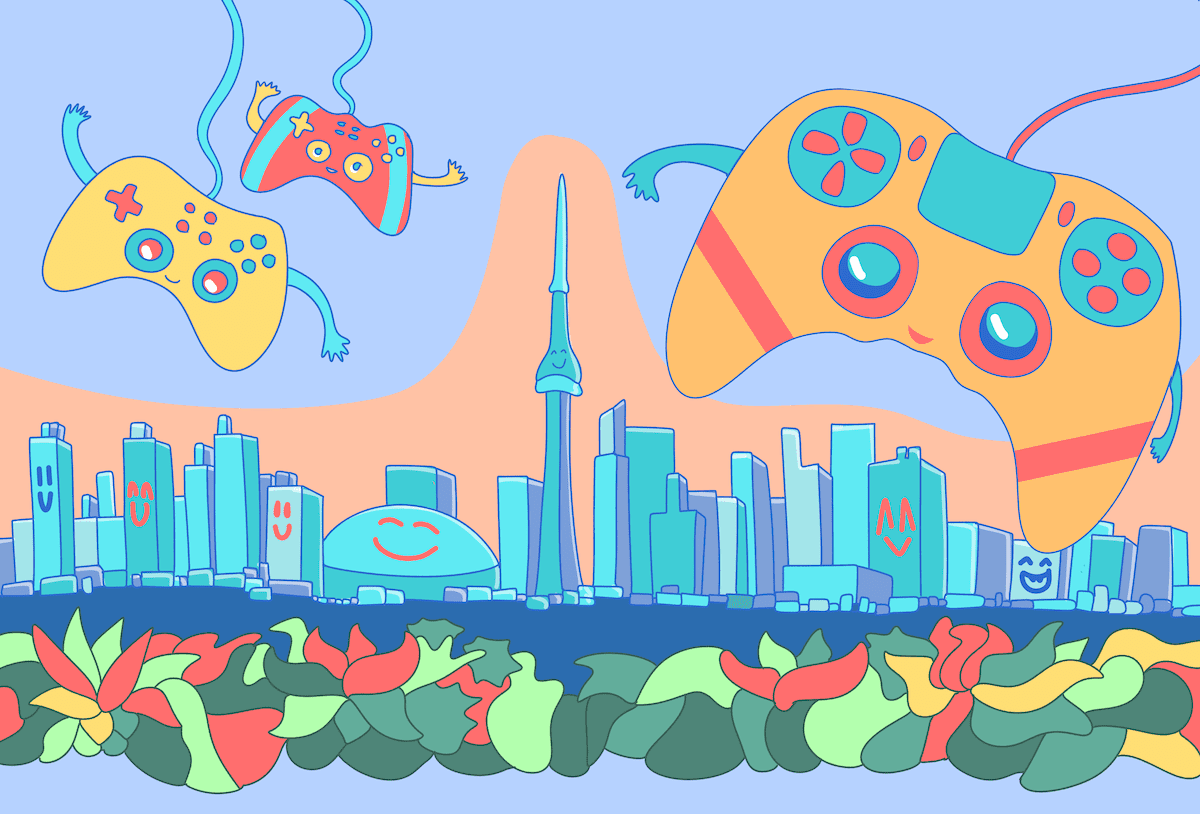
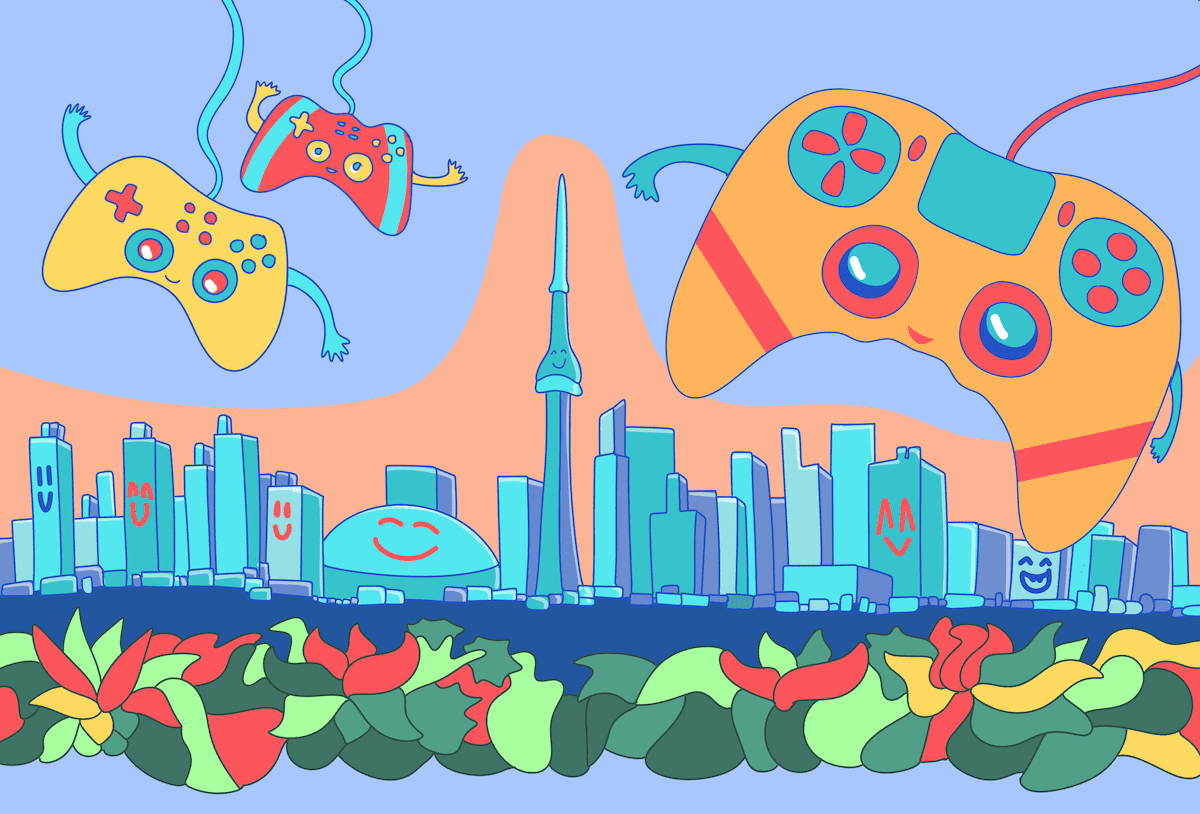
new social media image

diff --git a/schedule.html b/schedule.html
@@ -21,7 +21,7 @@
 
     <meta name="twitter:title" content="Toronto Games Week Schedule" />
     <meta name="twitter:description" content="Celebrating games in Toronto, Canada" />
-    <meta name="twitter:image" content="images/TGWSocial.png" id="indexImage" />
+    <meta name="twitter:image" content="images/TGWSocialSmall.png" id="indexImage" />
     <meta name="twitter:card" content="summary_large_image" />
 </head>
 

diff --git a/about.html b/about.html
@@ -21,7 +21,7 @@
 
   <meta name="twitter:title" content="About Toronto Games Week" />
   <meta name="twitter:description" content="Celebrating games in Toronto, Canada" />
-  <meta name="twitter:image" content="images/TGWSocial.png" id="indexImage" />
+  <meta name="twitter:image" content="images/TGWSocialSmall.png" id="indexImage" />
   <meta name="twitter:card" content="summary_large_image" />
 
 

diff --git a/index.html b/index.html
@@ -21,7 +21,7 @@
 
   <meta name="twitter:title" content="Toronto Games Week" />
   <meta name="twitter:description" content="Celebrating games in Toronto, Canada" />
-  <meta name="twitter:image" content="images/TGWSocial.png" id="indexImage" />
+  <meta name="twitter:image" content="images/TGWSocialSmall.png" id="indexImage" />
   <meta name="twitter:card" content="summary_large_image" />
 
 
